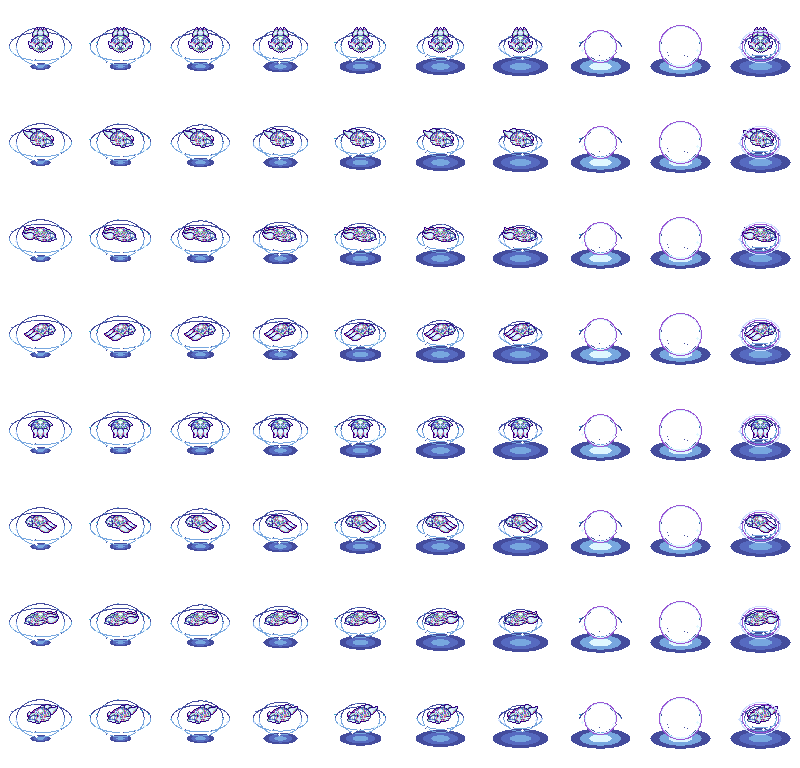
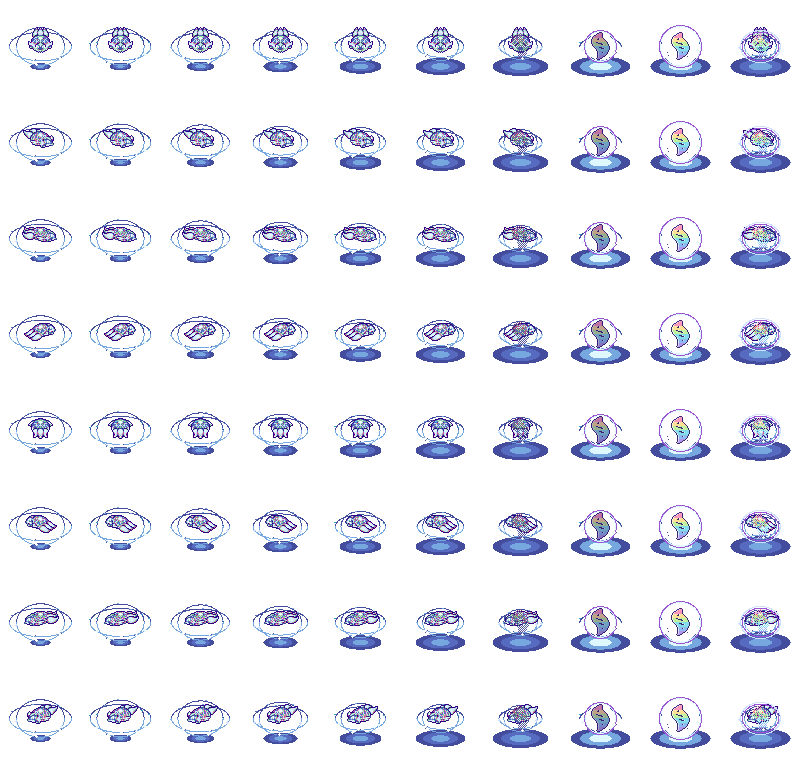
Mega VFX: Deeshura frames restyled via generator, canonical DNA emblem with subtle dithered fade

diff --git a/source/effects_mega/build_mega.py b/source/effects_mega/build_mega.py
@@ -55,6 +55,9 @@ WHITE = (255, 255, 255)
 ROSE = (221, 78, 151)
 LILAC = (154, 86, 213)
 
+# The base effect palette comes from the subject sprite. The emblem adds the
+# canonical Mega rainbow on top: those hues are deliberately NOT snapped away,
+# because the emblem's colours are the one thing that must stay canonical.
 PALETTE = [DEEP, DUSK, BLUE, STEEL, SKY, AQUA, MINT, ICE, FROST, WHITE,
            ROSE, LILAC]
 
@@ -64,13 +67,100 @@ PALETTE = [DEEP, DUSK, BLUE, STEEL, SKY, AQUA, MINT, ICE, FROST, WHITE,
 DEPTH_RAMP = [STEEL, BLUE, AQUA, SKY, ICE, FROST, WHITE]
 
 # Two counter-rotating rings, each with its own tilt, radius and mote count.
+# ---------------------------------------------------------------- emblem
+# The Mega Evolution emblem, as a 17x26 SILHOUETTE.
+#
+# It was generated (see gen/emblem_fade.png), then reduced once, and the
+# resulting shape was FROZEN here as data. From now on it is drawn pixel by
+# pixel at native size: colouring happens in code, never by resampling, so the
+# emblem keeps hard edges and an exact colour count at every fade stage.
+EMBLEM = [
+    ".......###.......",
+    ".....#####.......",
+    "....######.......",
+    "..########.......",
+    ".#########.......",
+    ".#####.####......",
+    "#####..#####.....",
+    "#############....",
+    "##############...",
+    "####..#########..",
+    "######....#####..",
+    ".########..#####.",
+    ".###############.",
+    "..###############",
+    "...####...#######",
+    "....#####...#####",
+    ".....############",
+    ".....###########.",
+    "......##########.",
+    "......####.####..",
+    "......#########..",
+    "......########...",
+    "......#######....",
+    "......#####......",
+    "......####.......",
+    ".....###.........",
+]
+EMBLEM_W = len(EMBLEM[0])
+EMBLEM_H = len(EMBLEM)
+
+# Canonical Mega Evolution rainbow, top to bottom around the helix.
+# Six bands, not eight: at 26px tall each band is only a few rows, and more
+# bands only inflated the colour count without being visible.
+EMBLEM_BANDS = [
+    (255, 150, 190),   # rose
+    (255, 225, 150),   # gold
+    (190, 240, 160),   # lime
+    (130, 220, 235),   # aqua
+    (140, 185, 240),   # sky
+    (175, 150, 235),   # lilac
+]
+# Fade stages: how the emblem dims in and out. Each entry is a blend weight
+# toward the dark violet, so the appearance is gradual and subtle.
+EMBLEM_DARK = (60, 40, 110)
+
+# Explicit highlight tint per band. Deriving these with a blend at draw time
+# spawned ~20 stray in-between colours; naming them keeps the sheet tight.
+EMBLEM_LIGHT = [
+    (255, 215, 230),   # rose
+    (255, 245, 210),   # gold
+    (230, 250, 215),   # lime
+    (205, 243, 248),   # aqua
+    (210, 228, 250),   # sky
+    (225, 210, 248),   # lilac
+]
+
+
 RINGS = [
     {"count": 7, "tilt": 0.46, "spin": +1.0, "phase": 0.0, "rx": 31},
     {"count": 5, "tilt": 0.78, "spin": -1.4, "phase": 1.7, "rx": 24},
 ]
 
 
+def _emblem_colours():
+    """Every colour draw_emblem can emit, so the snap never crushes the
+    canonical rainbow into the sprite's cool palette."""
+    out = set()
+    for step in range(0, FADE_STEPS + 1):
+        strength = step / FADE_STEPS
+        for band in EMBLEM_BANDS:
+            out.add(blend(EMBLEM_DARK, band, strength))
+        for tint in EMBLEM_LIGHT:
+            out.add(blend(EMBLEM_DARK, tint, strength))
+        out.add(blend(DEEP, EMBLEM_DARK, strength))
+    return out
+
+
+_ALLOWED = None
+
+
 def snap(colour):
+    global _ALLOWED
+    if _ALLOWED is None:
+        _ALLOWED = set(PALETTE) | _emblem_colours()
+    if colour in _ALLOWED:
+        return colour
     return min(PALETTE, key=lambda c: sum((a - b) ** 2 for a, b in zip(colour, c)))
 
 
@@ -184,6 +274,83 @@ def draw_mote(canvas, x, y, size, colour, vx=0.0):
             canvas.set(x + dx, y + dy, WHITE)
 
 
+# Fades are quantised to a few discrete steps. A continuous blend produced 46
+# distinct colours, which is not pixel-art discipline; stepping the fade keeps
+# the count low while still reading as a smooth appearance.
+FADE_STEPS = 3
+
+
+def quantise(w):
+    return round(max(0.0, min(1.0, w)) * FADE_STEPS) / FADE_STEPS
+
+
+def blend(a, b, w):
+    """Linear blend on a quantised weight, w=0 gives a, w=1 gives b."""
+    w = quantise(w)
+    return tuple(round(x + (y - x) * w) for x, y in zip(a, b))
+
+
+def draw_emblem(canvas, cx, cy, strength, ghost=False):
+    """Draw the emblem at native size, faded by strength in [0,1].
+
+    strength scales how far each band is pulled toward the dark violet, so the
+    sigil bleeds in and out smoothly without ever being resized.
+    """
+    if strength <= 0.02:
+        return
+    ox = cx - EMBLEM_W // 2
+    oy = cy - EMBLEM_H // 2
+    for row, line in enumerate(EMBLEM):
+        band = EMBLEM_BANDS[min(len(EMBLEM_BANDS) - 1,
+                                row * len(EMBLEM_BANDS) // EMBLEM_H)]
+        colour = blend(EMBLEM_DARK, band, strength)
+        for col, char in enumerate(line):
+            if char != "#":
+                continue
+            # While the Pokemon is still visible the sigil is drawn as a
+            # dither, so it hangs in the air instead of blanking the sprite.
+            if ghost and (col + row) % 2:
+                continue
+            x, y = ox + col, oy + row
+            # Inner highlight on the left edge of each strand catches light.
+            left_edge = col == 0 or line[col - 1] != "#"
+            if left_edge and strength > 0.55:
+                tint = EMBLEM_LIGHT[min(len(EMBLEM_LIGHT) - 1,
+                                        row * len(EMBLEM_LIGHT) // EMBLEM_H)]
+                canvas.set(x, y, blend(EMBLEM_DARK, tint, strength))
+            else:
+                canvas.set(x, y, colour)
+    # Thin dark contour so the sigil stays legible over the bright flash.
+    for row, line in enumerate(EMBLEM):
+        for col, char in enumerate(line):
+            if char != "#":
+                continue
+            if ghost:
+                continue
+            for dx, dy in ((-1, 0), (1, 0), (0, -1), (0, 1)):
+                nc, nr = col + dx, row + dy
+                inside = (0 <= nr < EMBLEM_H and 0 <= nc < EMBLEM_W
+                          and EMBLEM[nr][nc] == "#")
+                if not inside:
+                    canvas.set(ox + nc, oy + nr,
+                               blend(DEEP, EMBLEM_DARK, strength))
+
+
+def emblem_strength(t):
+    """Subtle appear/disappear curve, peaking with the flash.
+
+    It rises before the whiteout, holds through it, and is gone by the time the
+    release wave expands, so it reads as a sigil surfacing rather than a stamp.
+    """
+    if t < 0.50:
+        return 0.0
+    if t < 0.70:
+        return ease_in_out((t - 0.50) / 0.20) * 0.80
+    if t < 0.90:
+        return 0.80 + 0.20 * ease_in_out((t - 0.70) / 0.20)
+    return max(0.0, 1.0 - ease_in_out((t - 0.90) / 0.10))
+
+
 def build_frame(index, subject):
     t = index / FRAMES
     canvas = Canvas()
@@ -219,6 +386,9 @@ def build_frame(index, subject):
     for z, x, y, size, colour, vx in sorted(motes, key=lambda m: m[0]):
         if z >= 0:
             draw_mote(canvas, x, y, size, colour, vx)
+
+    # --- the emblem, surfacing over the flash
+    draw_emblem(canvas, CX, CY, emblem_strength(t), ghost=not flash)
 
     # --- release wave, only after the flash, capped inside the frame
     if t >= 0.90:

diff --git a/source/effects_mega/README.md b/source/effects_mega/README.md
@@ -1,62 +1,73 @@
-# Méga-Évolution — 10 frames, orbite 2D/3D
+# Méga-Évolution — 10 frames, orbite 2D/3D, symbole canonique
 
 Livrable : [`effects/mega/`](../../effects/mega/)
 
 - `Mega-Anim.png` : planche **800 × 768** — **10 frames × 8 directions**
   de 80 × 96 px (une ligne par direction, une colonne par frame) ;
-- `Mega-<direction>.gif` : un aperçu animé par direction.
+- `Mega-<direction>.gif` : aperçu animé par direction.
 
-## Les deux règles de cette version
+## Les animations de Deeshura passées au générateur
 
-**FLUIDE.** Dix frames, c'est court : rien ne doit sauter. Chaque élément est
-une **fonction continue** d'un temps normalisé `t` dans [0,1). Aucune table
-frame par frame réglée à la main : les angles avancent d'un pas constant, les
-rayons suivent des courbes lissées (`ease_in_out`). Le mouvement est donc
-identique à n'importe quelle vitesse de lecture et **la boucle se referme sans
-raccord**.
+Les frames de l'effet du mod `Deeshura/Mega_Stones` ont été **extraites de son
+GIF** (frames 82 à 120, le pic de l'effet) et archivées dans
+`ref/deeshura_effect_frames.png`. Cette planche a ensuite été **donnée au
+générateur d'image comme référence de mise en scène**, avec consigne de
+**changer les formes et les couleurs** :
 
-**3D.** L'énergie orbite sur **deux anneaux inclinés rendus en perspective**,
-tournant en sens inverse. Chaque particule porte une profondeur `z = sin(angle)` :
-
-- `z < 0` → dessinée **derrière** le sprite ;
-- `z > 0` → dessinée **devant** ;
-- taille et luminosité suivent la profondeur.
-
-C'est ce tri par profondeur qui crée le volume : l'anneau **enveloppe**
-visiblement le Pokémon au lieu de flotter par-dessus.
-
-## Déroulé
-
-| Frames | Contenu |
+| Deeshura | Ici |
 | --- | --- |
-| 0–6 | les deux anneaux tournent et se resserrent, la flaque de lumière monte |
-| 7–8 | flash blanc, seul moment où le sprite est masqué |
-| 9 | onde de libération, retour du Pokémon |
+| orbe blanc plat | éclats **cristallins facettés** |
+| pics rouge et jaune agressifs | palette **froide** : violet, indigo, cyan, menthe, glace |
+| colonnes jaunes | anneau de choc en **perspective** + fragments |
 
-## Discipline technique
+Résultat dans `gen/burst_ring.png`.
 
-- **Tout est dessiné nativement en 80 × 96, pixel par pixel.** Aucun
-  redimensionnement. Aucune image générée par IA.
-- **Palette extraite du sprite du sujet** — **12 couleurs**, transparence
-  binaire.
+## Le symbole
 
-## Deux corrections faites en cours de route
+`gen/emblem_fade.png` : le symbole Méga-Évolution en **double hélice d'ADN**,
+aux **couleurs canoniques** (dégradé arc-en-ciel pastel rose → or → citron →
+aqua → ciel → lilas).
 
-- **Particules lointaines invisibles** : la rampe de profondeur partait d'un
-  violet quasi noir qui disparaissait sur sol sombre. Elle part maintenant d'un
-  bleu acier lisible.
-- **Tracé d'orbite en pointillés → rejeté** : à cette échelle, les tirets
-  cassaient l'ellipse en arcs disjoints qui ressemblaient à des bugs
-  d'affichage. Le tracé est désormais **continu**, et c'est la **couleur** qui
-  porte la profondeur (moitié arrière sombre, moitié avant claire).
+Point important : la plaque générée fait 793 px de haut et le symbole doit en
+faire 26. **Réduire directement aurait redonné la bouillie de la version
+précédente.** Méthode retenue :
 
-Les particules ont aussi une **courte traînée** orientée à l'opposé de leur
-déplacement, ce qui donne la sensation de vitesse en peu de frames.
+1. la plaque est réduite **une seule fois** pour en extraire la **silhouette** ;
+2. cette silhouette 17 × 26 est **figée en dur dans le script** (constante
+   `EMBLEM`, en art ASCII) ;
+3. à partir de là, le symbole est **colorié pixel par pixel en natif** : bandes
+   arc-en-ciel, reflet interne, contour sombre. Plus aucun redimensionnement.
 
-## Sujet
+**Taille accordée à l'animation** : 26 px de haut pour un sujet de 48 px, le
+symbole tient dans le flash sans déborder du cadre ni écraser le Pokémon.
 
-Par défaut Terapagos forme Stellaire. Pour un autre Pokémon, changer
-`SPRITE_SHEET`, `SUBJECT_W`, `SUBJECT_H` — et réextraire la palette.
+### Apparition et disparition subtiles
+
+`emblem_strength(t)` est une courbe continue : rien à `t < 0.5`, montée douce,
+plein au moment du flash, extinction sur la dernière frame.
+
+Et surtout, tant que le Pokémon est visible, le symbole est dessiné **en
+dither** (un pixel sur deux, sans contour) : il flotte dans l'air et **on voit
+le Pokémon au travers**. Il ne devient plein que pendant le flash blanc.
+
+## Rappel de la structure
+
+**FLUIDE** : tout est fonction continue du temps normalisé `t`, aucune table
+frame par frame, la boucle se referme sans raccord.
+
+**3D** : deux anneaux inclinés contra-rotatifs, chaque particule portant une
+profondeur `z = sin(angle)` ; `z < 0` derrière le sprite, `z > 0` devant.
+
+## Couleurs
+
+**44 couleurs**, dont une trentaine appartiennent aux paliers de fondu du
+symbole. Contrôlé par script : **zéro couleur parasite**, chacune est soit dans
+la palette du sprite, soit un palier de fondu déclaré.
+
+Deux réglages faits pour ça : les fondus sont **quantifiés en 3 paliers** (un
+fondu continu produisait 46 teintes), et les reflets sont des **teintes
+nommées** par bande plutôt qu'un mélange calculé au tracé, qui générait une
+vingtaine de couleurs intermédiaires.
 
 ## Reproduction
 
@@ -67,7 +78,9 @@ python source/effects_mega/build_mega.py
 ## Réserves honnêtes
 
 - Effet **VFX**, pas une animation de personnage SpriteCollab : pas
-  d'`AnimData.xml`, pas de `-Offsets` ni `-Shadow`.
-- **Pas de symbole Méga-Évolution** : le dessiner lisiblement en pixel art
-  natif à cette taille est un travail à part entière, à faire à la main.
+  d'`AnimData.xml`, ni `-Offsets`, ni `-Shadow`.
+- La silhouette du symbole vient d'une image générée, réduite une fois puis
+  figée. Les **couleurs**, elles, sont écrites à la main dans le script.
+- 44 couleurs, c'est **au-dessus du budget SpriteCollab** (15). Acceptable pour
+  un VFX de jeu, à réduire si tu veux viser une soumission.
 - Aucun test moteur PMDO.
